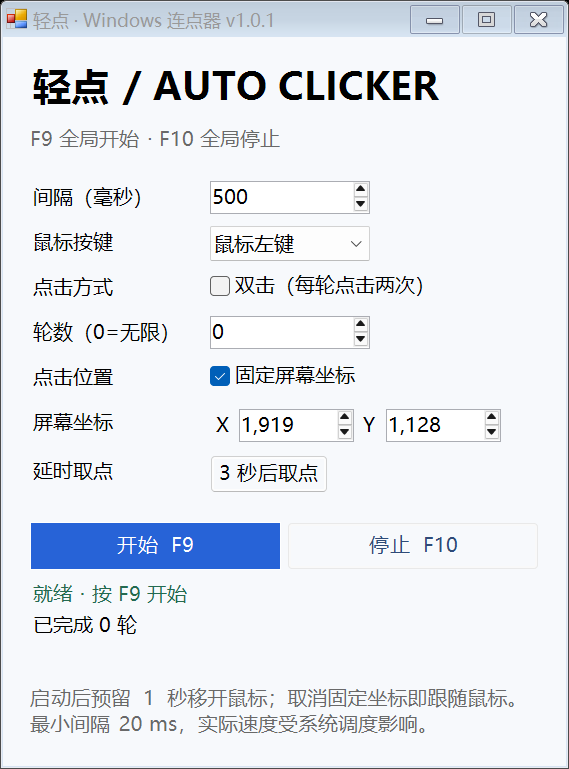
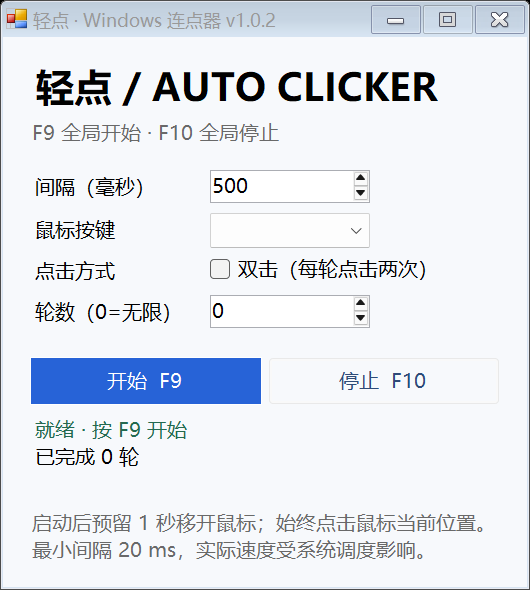
fix: remove coordinate mode and never reposition the pointer

diff --git a/src/Qingdian.AutoClicker/MainForm.cs b/src/Qingdian.AutoClicker/MainForm.cs
@@ -10,12 +10,8 @@ namespace WindowsAutoClicker
     {
         private readonly NumericUpDown interval = Number(20, 3600000, 100);
         private readonly NumericUpDown limit = Number(0, 100000000, 0);
-        private readonly NumericUpDown x = Number(-100000, 100000, 0);
-        private readonly NumericUpDown y = Number(-100000, 100000, 0);
         private readonly ComboBox button = new ComboBox();
         private readonly CheckBox doubleClick = new CheckBox { Text = "双击（每轮点击两次）", AutoSize = true };
-        private readonly CheckBox fixedPosition = new CheckBox { Text = "固定屏幕坐标", AutoSize = true };
-        private readonly Button pick = new Button { Text = "3 秒后取点", AutoSize = true };
         private readonly Button start = new Button { Text = "开始  F9", Dock = DockStyle.Fill, Height = 42 };
         private readonly Button stop = new Button { Text = "停止  F10", Dock = DockStyle.Fill, Height = 42, Enabled = false };
         private readonly Label status = new Label { Text = "就绪 · 按 F9 开始", AutoSize = true, ForeColor = Color.FromArgb(36, 106, 80) };
@@ -23,12 +19,10 @@ namespace WindowsAutoClicker
         private readonly Label configWarning = new Label { AutoSize = true, ForeColor = Color.DarkOrange };
         private readonly TableLayoutPanel options = new TableLayoutPanel();
         private readonly Timer timer = new Timer();
-        private readonly Timer pickTimer = new Timer { Interval = 100 };
         private readonly Timer stopTimer = new Timer { Interval = 20 };
         private readonly StopSignal stopSignal = new StopSignal(() => Native.GetAsyncKeyState((int)Keys.F10) < 0);
         private readonly System.Threading.Timer stopPoller;
         private readonly Stopwatch elapsed = new Stopwatch();
-        private readonly Stopwatch pickElapsed = new Stopwatch();
         private readonly SettingsStore settingsStore = new SettingsStore();
         private bool running, f9Registered, f10Registered;
         private readonly ClickSession session = new ClickSession();
@@ -42,11 +36,11 @@ namespace WindowsAutoClicker
 
         internal MainForm()
         {
-            Text = "轻点 · Windows 连点器 v1.0.1";
+            Text = "轻点 · Windows 连点器 v1.0.2";
             Font = new Font("Microsoft YaHei UI", 10F);
             AutoScaleDimensions = new SizeF(96F, 96F);
             AutoScaleMode = AutoScaleMode.Dpi;
-            ClientSize = new Size(600, 570);
+            ClientSize = new Size(600, 430);
             FormBorderStyle = FormBorderStyle.FixedSingle;
             MaximizeBox = false;
             StartPosition = FormStartPosition.CenterScreen;
@@ -70,31 +64,21 @@ namespace WindowsAutoClicker
             AddOption("鼠标按键", button);
             AddOption("点击方式", doubleClick);
             AddOption("轮数（0=无限）", limit);
-            AddOption("点击位置", fixedPosition);
-            var coords = new FlowLayoutPanel { AutoSize = true, WrapContents = false, Margin = Padding.Empty };
-            x.Width = 115; y.Width = 115;
-            coords.Controls.Add(new Label { Text = "X", AutoSize = true, Padding = new Padding(0, 5, 0, 0) }); coords.Controls.Add(x);
-            coords.Controls.Add(new Label { Text = "Y", AutoSize = true, Padding = new Padding(0, 5, 0, 0) }); coords.Controls.Add(y);
-            AddOption("屏幕坐标", coords);
-            AddOption("延时取点", pick);
             layout.Controls.Add(options);
             var actions = new TableLayoutPanel { ColumnCount = 2, Dock = DockStyle.Top, Height = 54, Margin = new Padding(0, 16, 0, 8) };
             actions.ColumnStyles.Add(new ColumnStyle(SizeType.Percent, 50)); actions.ColumnStyles.Add(new ColumnStyle(SizeType.Percent, 50));
             start.BackColor = Color.FromArgb(39, 99, 215); start.ForeColor = Color.White; start.FlatStyle = FlatStyle.Flat;
             actions.Controls.Add(start); actions.Controls.Add(stop); layout.Controls.Add(actions);
             layout.Controls.Add(status); layout.Controls.Add(counter); layout.Controls.Add(configWarning);
-            layout.Controls.Add(new Label { Text = "启动后预留 1 秒移开鼠标；取消固定坐标即跟随鼠标。\n最小间隔 20 ms，实际速度受系统调度影响。", AutoSize = true, ForeColor = Color.DimGray, Margin = new Padding(0, 12, 0, 0) });
+            layout.Controls.Add(new Label { Text = "启动后预留 1 秒移开鼠标；始终点击鼠标当前位置。\n最小间隔 20 ms，实际速度受系统调度影响。", AutoSize = true, ForeColor = Color.DimGray, Margin = new Padding(0, 12, 0, 0) });
             Controls.Add(layout);
             start.Click += delegate { StartClicking(); };
             stop.Click += delegate { StopClicking("已停止"); };
-            fixedPosition.CheckedChanged += delegate { UpdateCoordinates(); };
-            pick.Click += delegate { BeginPick(); };
             timer.Tick += delegate { TickClick(); };
-            pickTimer.Tick += delegate { TickPick(); };
             stopTimer.Tick += delegate { CheckEmergencyStop(); };
             stopPoller = new System.Threading.Timer(delegate { stopSignal.Poll(); }, null, 0, 10);
             FormClosing += delegate { StopClicking("已停止"); SaveSettings(); };
-            LoadSettings(); UpdateCoordinates();
+            LoadSettings();
         }
 
         private void AddOption(string title, Control control)
@@ -133,19 +117,14 @@ namespace WindowsAutoClicker
         }
         private Settings ReadSettings()
         {
-            return new Settings { Interval = (int)interval.Value, Button = button.SelectedIndex, DoubleClick = doubleClick.Checked, FixedPosition = fixedPosition.Checked, X = (int)x.Value, Y = (int)y.Value, Limit = (int)limit.Value };
+            return new Settings { Interval = (int)interval.Value, Button = button.SelectedIndex, DoubleClick = doubleClick.Checked, Limit = (int)limit.Value };
         }
-        private void UpdateCoordinates() { x.Enabled = y.Enabled = fixedPosition.Checked; }
         private void StartClicking()
         {
-            if (running || pickTimer.Enabled || !f10Registered) return;
+            if (running || !f10Registered) return;
             stopSignal.Reset();
             if (stopSignal.Check()) { status.Text = "请先松开 F10，再开始。"; return; }
             active = ReadSettings();
-            if (active.FixedPosition && !OnScreen(new Point(active.X, active.Y)))
-            {
-                status.Text = "坐标不在当前屏幕内，请重新取点。"; return;
-            }
             SaveSettings();
             if (stopSignal.Check()) { StopClicking("已取消启动 · F10"); return; }
             inputs = Native.ClickInputs(active.Button, active.DoubleClick);
@@ -154,17 +133,9 @@ namespace WindowsAutoClicker
             elapsed.Restart(); timer.Interval = 1000; timer.Start();
             stopTimer.Start();
         }
-        private static bool OnScreen(Point point)
-        {
-            foreach (Screen screen in Screen.AllScreens) if (screen.Bounds.Contains(point)) return true;
-            return false;
-        }
         private void TickClick()
         {
             if (!running) return;
-            if (CheckEmergencyStop()) return;
-            if (active.FixedPosition && (!OnScreen(new Point(active.X, active.Y)) || !Native.SetCursorPos(active.X, active.Y)))
-            { StopClicking("坐标不可用，已停止"); return; }
             if (CheckEmergencyStop()) return;
             uint sent = Native.SendInput((uint)inputs.Length, inputs, Marshal.SizeOf(typeof(Native.Input)));
             if (sent != inputs.Length)
@@ -181,18 +152,9 @@ namespace WindowsAutoClicker
         }
         private void StopClicking(string message)
         {
-            timer.Stop(); pickTimer.Stop(); stopTimer.Stop(); elapsed.Stop(); session.Stop(); running = false;
+            timer.Stop(); stopTimer.Stop(); elapsed.Stop(); session.Stop(); running = false;
             options.Enabled = true; start.Enabled = f10Registered; stop.Enabled = false;
-            pick.Text = "3 秒后取点"; status.Text = message;
-        }
-        private void BeginPick()
-        {
-            stopSignal.Reset();
-            if (stopSignal.Check()) { status.Text = "请先松开 F10，再取点。"; return; }
-            options.Enabled = false; start.Enabled = false; stop.Enabled = true;
-            status.Text = "请把鼠标移到目标位置 · F10 取消";
-            pickElapsed.Restart(); pickTimer.Start();
-            stopTimer.Start();
+            status.Text = message;
         }
         private bool CheckEmergencyStop()
         {
@@ -200,24 +162,13 @@ namespace WindowsAutoClicker
             StopClicking("已停止 · F10 按键检测");
             return true;
         }
-        private void TickPick()
-        {
-            if (CheckEmergencyStop()) return;
-            pick.Text = Math.Max(0, 3 - pickElapsed.Elapsed.TotalSeconds).ToString("0.0") + " 秒后取点";
-            if (pickElapsed.ElapsedMilliseconds < 3000) return;
-            Point point = Cursor.Position;
-            x.Value = Math.Max(x.Minimum, Math.Min(x.Maximum, point.X));
-            y.Value = Math.Max(y.Minimum, Math.Min(y.Maximum, point.Y));
-            fixedPosition.Checked = true;
-            StopClicking("已记录坐标：" + point.X + ", " + point.Y);
-        }
         private void LoadSettings()
         {
             string warning;
             Settings value = settingsStore.Load(out warning);
             interval.Value = value.Interval; button.SelectedIndex = value.Button;
-            doubleClick.Checked = value.DoubleClick; fixedPosition.Checked = value.FixedPosition;
-            x.Value = value.X; y.Value = value.Y; limit.Value = value.Limit;
+            doubleClick.Checked = value.DoubleClick;
+            limit.Value = value.Limit;
             configWarning.Text = warning ?? string.Empty;
         }
         private void SaveSettings()
@@ -228,9 +179,9 @@ namespace WindowsAutoClicker
         }
         protected override void Dispose(bool disposing)
         {
-            if (disposing) { timer.Stop(); pickTimer.Stop(); stopTimer.Stop(); stopPoller.Dispose(); }
+            if (disposing) { timer.Stop(); stopTimer.Stop(); stopPoller.Dispose(); }
             base.Dispose(disposing);
-            if (disposing) { timer.Dispose(); pickTimer.Dispose(); stopTimer.Dispose(); }
+            if (disposing) { timer.Dispose(); stopTimer.Dispose(); }
         }
     }
 

diff --git a/tests/Qingdian.AutoClicker.Tests/RegressionTests.cs b/tests/Qingdian.AutoClicker.Tests/RegressionTests.cs
@@ -14,11 +14,10 @@ namespace Qingdian.AutoClicker.Tests
         [InlineData(int.MaxValue, 3600000)]
         public void CorruptIntervalIsClamped(int value, int expected)
         {
-            var settings = new Settings { Interval = value, Button = 99, X = int.MinValue, Limit = -1 };
+            var settings = new Settings { Interval = value, Button = 99, Limit = -1 };
             settings.Validate();
             Assert.Equal(expected, settings.Interval);
             Assert.Equal(2, settings.Button);
-            Assert.Equal(-100000, settings.X);
             Assert.Equal(0, settings.Limit);
         }
 
@@ -69,10 +68,34 @@ namespace Qingdian.AutoClicker.Tests
                 for (int i = 0; i < inputs.Length; i++)
                 {
                     Assert.Equal(0u, inputs[i].type);
+                    Assert.Equal(0, inputs[i].data.mouse.dx);
+                    Assert.Equal(0, inputs[i].data.mouse.dy);
+                    Assert.Equal(0u, inputs[i].data.mouse.flags & (0x0001u | 0x8000u)); // No MOVE or ABSOLUTE flags.
                     Assert.Equal(i % 2 == 0 ? down : up, inputs[i].data.mouse.flags);
                 }
             }
             Assert.Equal(IntPtr.Size == 8 ? 40 : 28, Marshal.SizeOf(typeof(Native.Input)));
+        }
+
+        [Fact]
+        public void LegacyFixedCoordinatesAreIgnoredAndRemovedOnSave()
+        {
+            WithDirectory(dir =>
+            {
+                string path = Path.Combine(dir, "settings.xml");
+                File.WriteAllText(path, "<Settings><Interval>500</Interval><FixedPosition>true</FixedPosition><X>1919</X><Y>1128</Y><Limit>3</Limit></Settings>");
+                string warning;
+                var store = new SettingsStore(path);
+                var settings = store.Load(out warning);
+                Assert.Null(warning);
+                Assert.Equal(500, settings.Interval);
+                Assert.Equal(3, settings.Limit);
+                Assert.True(store.TrySave(settings, out warning));
+                string saved = File.ReadAllText(path);
+                Assert.DoesNotContain("FixedPosition", saved);
+                Assert.DoesNotContain("<X>", saved);
+                Assert.DoesNotContain("<Y>", saved);
+            });
         }
 
         [Fact]
@@ -82,12 +105,12 @@ namespace Qingdian.AutoClicker.Tests
             {
                 var store = new SettingsStore(Path.Combine(dir, "settings.xml"));
                 string warning;
-                Assert.True(store.TrySave(new Settings { X = -100, DoubleClick = true }, out warning));
+                Assert.True(store.TrySave(new Settings { Interval = 150, DoubleClick = true }, out warning));
                 Assert.Null(warning);
-                Assert.Equal(-100, store.Load(out warning).X);
+                Assert.Equal(150, store.Load(out warning).Interval);
                 Assert.True(store.Load(out warning).DoubleClick);
-                Assert.True(store.TrySave(new Settings { X = 300 }, out warning));
-                Assert.Equal(300, store.Load(out warning).X);
+                Assert.True(store.TrySave(new Settings { Interval = 300 }, out warning));
+                Assert.Equal(300, store.Load(out warning).Interval);
                 Assert.Single(Directory.GetFiles(dir));
             });
         }
@@ -128,13 +151,13 @@ namespace Qingdian.AutoClicker.Tests
                 string path = Path.Combine(dir, "settings.xml");
                 var store = new SettingsStore(path);
                 string warning;
-                Assert.True(store.TrySave(new Settings { X = 17 }, out warning));
+                Assert.True(store.TrySave(new Settings { Interval = 170 }, out warning));
                 using (File.Open(path, FileMode.Open, FileAccess.Read, FileShare.None))
                 {
-                    Assert.False(store.TrySave(new Settings { X = 99 }, out warning));
+                    Assert.False(store.TrySave(new Settings { Interval = 990 }, out warning));
                     Assert.NotNull(warning);
                 }
-                Assert.Equal(17, store.Load(out warning).X);
+                Assert.Equal(170, store.Load(out warning).Interval);
                 Assert.Single(Directory.GetFiles(dir));
             });
         }

diff --git a/src/Qingdian.AutoClicker/Native.cs b/src/Qingdian.AutoClicker/Native.cs
@@ -26,7 +26,6 @@ namespace WindowsAutoClicker
         [DllImport("user32.dll", SetLastError = true)] internal static extern bool RegisterHotKey(IntPtr window, int id, uint modifiers, uint key);
         [DllImport("user32.dll")] internal static extern bool UnregisterHotKey(IntPtr window, int id);
         [DllImport("user32.dll", SetLastError = true)] internal static extern uint SendInput(uint count, Input[] inputs, int size);
-        [DllImport("user32.dll", SetLastError = true)] internal static extern bool SetCursorPos(int x, int y);
         [DllImport("user32.dll")] internal static extern bool SetProcessDPIAware();
         [DllImport("user32.dll")] internal static extern short GetAsyncKeyState(int key);
 

diff --git a/src/Qingdian.AutoClicker/Settings.cs b/src/Qingdian.AutoClicker/Settings.cs
@@ -7,17 +7,12 @@ namespace WindowsAutoClicker
         public int Interval = 100;
         public int Button = 0;
         public bool DoubleClick = false;
-        public bool FixedPosition = false;
-        public int X = 0;
-        public int Y = 0;
         public int Limit = 0;
         public void Validate()
         {
             Interval = Math.Max(20, Math.Min(3600000, Interval));
             Button = Math.Max(0, Math.Min(2, Button));
             Limit = Math.Max(0, Math.Min(100000000, Limit));
-            X = Math.Max(-100000, Math.Min(100000, X));
-            Y = Math.Max(-100000, Math.Min(100000, Y));
         }
     }
 

diff --git a/README.md b/README.md
@@ -17,8 +17,7 @@
 | 鼠标按键 | 左键、右键、中键 |
 | 点击方式 | 单击或双击，每轮双击包含两次点击 |
 | 点击轮数 | 设置完成轮数，0 表示持续运行 |
-| 点击位置 | 跟随鼠标，或使用固定屏幕坐标；支持负坐标 |
-| 延时取点 | 按下按钮后，在 3 秒内将鼠标移到目标位置 |
+| 点击位置 | 始终点击鼠标当前位置，程序不移动鼠标 |
 | 配置保存 | 启动连点、关闭窗口时保存，下次自动恢复 |
 
 ## 下载与使用
@@ -32,7 +31,7 @@
 
 F9/F10 是全局快捷键，无需让窗口保持焦点。F10 注册失败时禁止启动；F9 被占用时可使用开始按钮，关闭冲突程序后重启即可重新注册。
 
-从 v1.0.1 起，额外使用独立线程约每 10 ms 检测 F10 按下状态，并保留停止请求；启动延迟、取点和每轮点击前都会检查。此备用路径不依赖 `WM_HOTKEY`，也不要求松开 Ctrl/Alt/Shift。它仍受 Windows 桌面访问限制，极短按键可能被轮询漏过；不能保证在锁屏、安全桌面或系统拦截环境中生效。状态栏会显示由“F10 热键”还是“F10 按键检测”触发停止。
+从 v1.0.1 起，额外使用独立线程约每 10 ms 检测 F10 按下状态，并保留停止请求；启动延迟和每轮点击前都会检查。此备用路径不依赖 `WM_HOTKEY`，也不要求松开 Ctrl/Alt/Shift。它仍受 Windows 桌面访问限制，极短按键可能被轮询漏过；不能保证在锁屏、安全桌面或系统拦截环境中生效。状态栏会显示由“F10 热键”还是“F10 按键检测”触发停止。
 
 配置文件位于 `%LOCALAPPDATA%\WindowsAutoClicker\settings.xml`，兼容初版工具路径。退出程序后删除该文件可重置配置。程序不添加开机启动项；卸载时删除解压目录即可，配置目录可另行删除。
 
@@ -41,8 +40,8 @@ F9/F10 是全局快捷键，无需让窗口保持焦点。F10 注册失败时禁
 - 间隔由 Windows UI 定时器调度，不是实时精度保证；高负载下速度会变慢。
 - 程序通过 Windows `SendInput` 发送点击，不能保证所有游戏、远程桌面或特殊窗口接受输入。
 - 普通权限进程通常不能操作更高权限的目标；仅在需要时使用相同权限运行。
-- 锁屏、安全桌面不支持输入；检测到输入失败或固定坐标失效时停止。
-- 使用系统 DPI 感知模式；混合缩放多显示器可能出现界面模糊，请取点后验证目标位置。
+- 锁屏、安全桌面不支持输入；检测到输入失败时停止。
+- 使用系统 DPI 感知模式；混合缩放多显示器可能出现界面模糊。
 - 自动化测试验证配置、计数、输入结构与消息处理，不替代真实桌面点击验收。首版尚未在完整 Windows/DPI/权限组合上人工验收，参见 [测试说明](docs/TESTING.md)。
 
 请只在允许自动化操作的应用和场景中使用。

diff --git a/README.en.md b/README.en.md
@@ -11,8 +11,8 @@ A small, open-source Windows auto clicker with a Chinese desktop UI. **F9 starts
 - Configurable interval from 20 ms to one hour.
 - Left, right, or middle button; single or double clicks.
 - A fixed number of rounds, or unlimited rounds. A double-click round contains two clicks.
-- Follow the pointer or click a fixed screen position, including negative coordinates.
-- Three-second coordinate picker; one-second delay before clicking starts.
+- Click at the current pointer location without moving the pointer.
+- One-second delay before clicking starts.
 - Local settings persistence; single instance; startup disabled if the stop hotkey is unavailable.
 
 ## Run
@@ -21,7 +21,7 @@ Download and extract a release ZIP, then run `Qingdian.AutoClicker.exe`. Require
 
 Settings live in `%LOCALAPPDATA%\WindowsAutoClicker\settings.xml`. Exit the app and delete that file to reset settings. Delete the extracted folder to uninstall; settings can be deleted separately.
 
-Since v1.0.1, a worker samples F10 state approximately every 10 ms and latches stop requests independently of `WM_HOTKEY`. The UI checks before each click, during startup delay, and while picking coordinates. Modifier keys do not prevent this fallback. Sampling can miss very short presses and remains subject to Windows desktop access restrictions; it is not a guarantee for secure desktops or intercepted input. The status text identifies which stop path fired.
+Since v1.0.1, a worker samples F10 state approximately every 10 ms and latches stop requests independently of `WM_HOTKEY`. The UI checks before each click and during startup delay. Modifier keys do not prevent this fallback. Sampling can miss very short presses and remains subject to Windows desktop access restrictions; it is not a guarantee for secure desktops or intercepted input. The status text identifies which stop path fired.
 
 ## Build and test
 
@@ -36,7 +36,7 @@ The solution uses SDK-style projects targeting .NET Framework 4.8. Locked NuGet 
 
 ## Limits
 
-Windows scheduling affects timing. Elevated targets may require matching privileges; some applications ignore synthetic input. Secure/locked desktops are unsupported. Mixed-DPI displays may require checking the picked position. Use only where automation is permitted.
+Windows scheduling affects timing. Elevated targets may require matching privileges; some applications ignore synthetic input. Secure/locked desktops are unsupported. Use only where automation is permitted.
 
 Automated tests cover logic, persistence, native layout, and message handling, not end-to-end input delivery on every desktop. Full manual Windows/DPI/privilege acceptance is still pending; see [testing](docs/TESTING.md).
 

diff --git a/SECURITY.md b/SECURITY.md
@@ -14,6 +14,6 @@
 
 程序默认以当前用户权限运行，不自动提权、不联网、不收集遥测、不安装服务。配置保存在当前用户的本地应用数据目录。XML 读取禁止 DTD/外部实体，并限制文档大小。
 
-F10 注册失败时禁止连点；输入失败时停止。应用无法保证模拟输入被目标窗口接受，也无法阻止用户将固定坐标指向敏感操作。不要将连点目标设置为购买、删除或授权确认等不可逆操作。
+F10 注册失败时禁止连点；输入失败时停止。应用无法保证模拟输入被目标窗口接受，也无法判断鼠标当前指向的操作是否敏感。不要将连点目标设置为购买、删除或授权确认等不可逆操作。
 
 发行包尚未进行代码签名，可用随附 SHA-256 文件校验下载完整性。哈希不是代码签名，不能独立证明发布者身份。

diff --git a/CHANGELOG.md b/CHANGELOG.md
@@ -2,6 +2,12 @@
 
 版本遵循语义化版本约定；用户可见变更在发布前记录。
 
+## [1.0.2] - 2026-09-21
+
+- 移除固定坐标和延时取点选项，始终点击鼠标当前位置。
+- 删除 SetCursorPos 调用，点击事件不含鼠标移动标志。
+- 兼容旧配置，忽略并在保存时移除旧坐标字段，保留其他设置。
+
 ## [1.0.1] - 2026-09-21
 
 - 针对 F10 无法停止的反馈，增加独立线程按键状态采样与停止标记，作为全局热键消息之外的备用路径。
